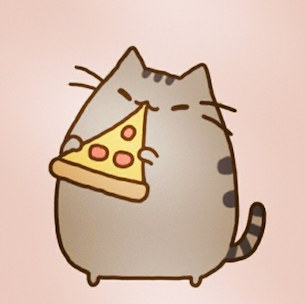
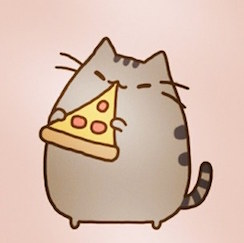
change image to round, color of jumbotron

diff --git a/index.html b/index.html
@@ -12,7 +12,7 @@
   <body>
     <div class="container text-center">
       <div class="jumbotron">
-        <img src="img/pizza.jpg" alt="cat eating pizza" class="img-rounded"/>
+        <img src="img/pizza.jpg" alt="cat eating pizza" class="img-circle"/>
         <h1>Poppin' Pizza</h1>
         <p>Pizza for the whole family. <br>Pick a size, toppings and create the pizza of your dreams.</p>
       </div>

diff --git a/css/styles.css b/css/styles.css
@@ -12,8 +12,12 @@ body {
 .jumbotron p {
   font-family: 'Raleway', sans-serif;
 }
-.jumbotron img {
-  width: auto;
+.jumbotron {
+  margin-top: 2%;
+  background-color: #ffffe2 !important;
+}
+.well {
+  background-color: #ffffe2 !important;
 }
 #pizzaOrder h4 {
   color: 	#ce0000;
